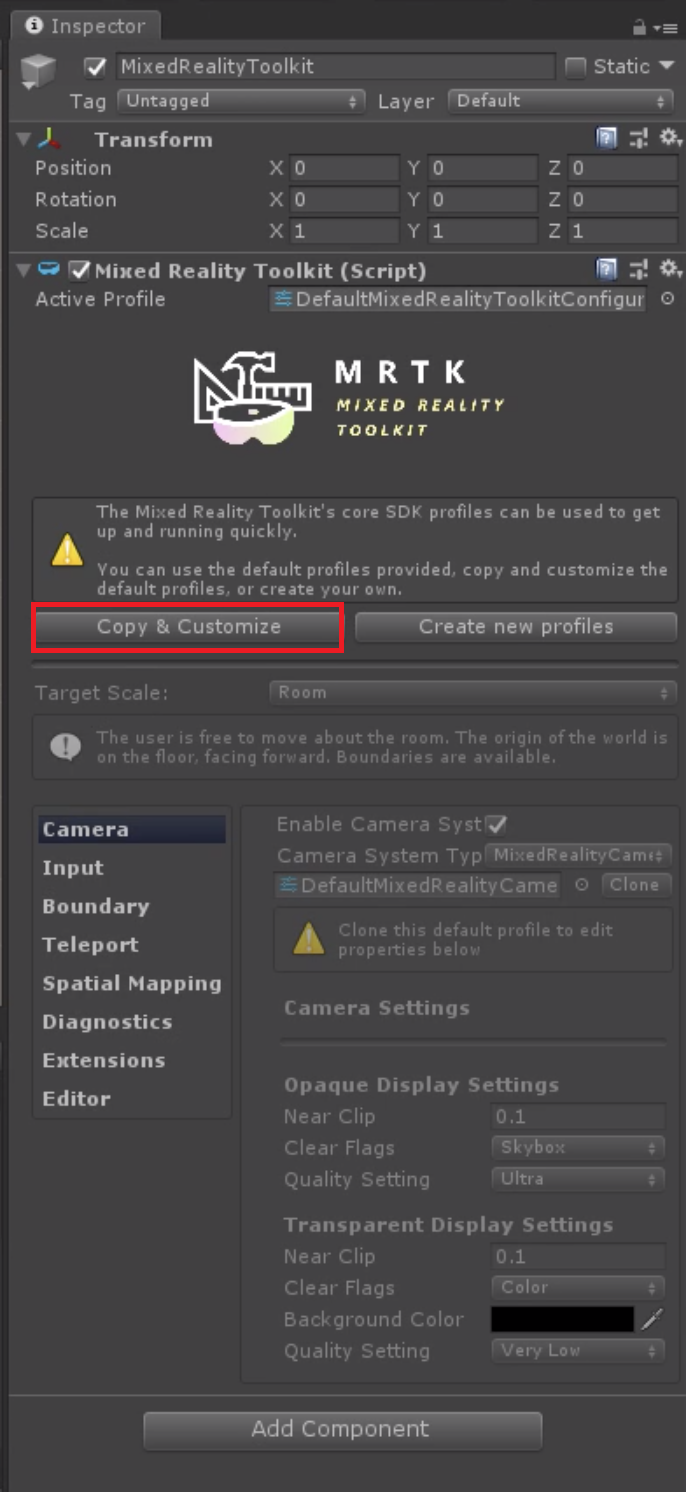
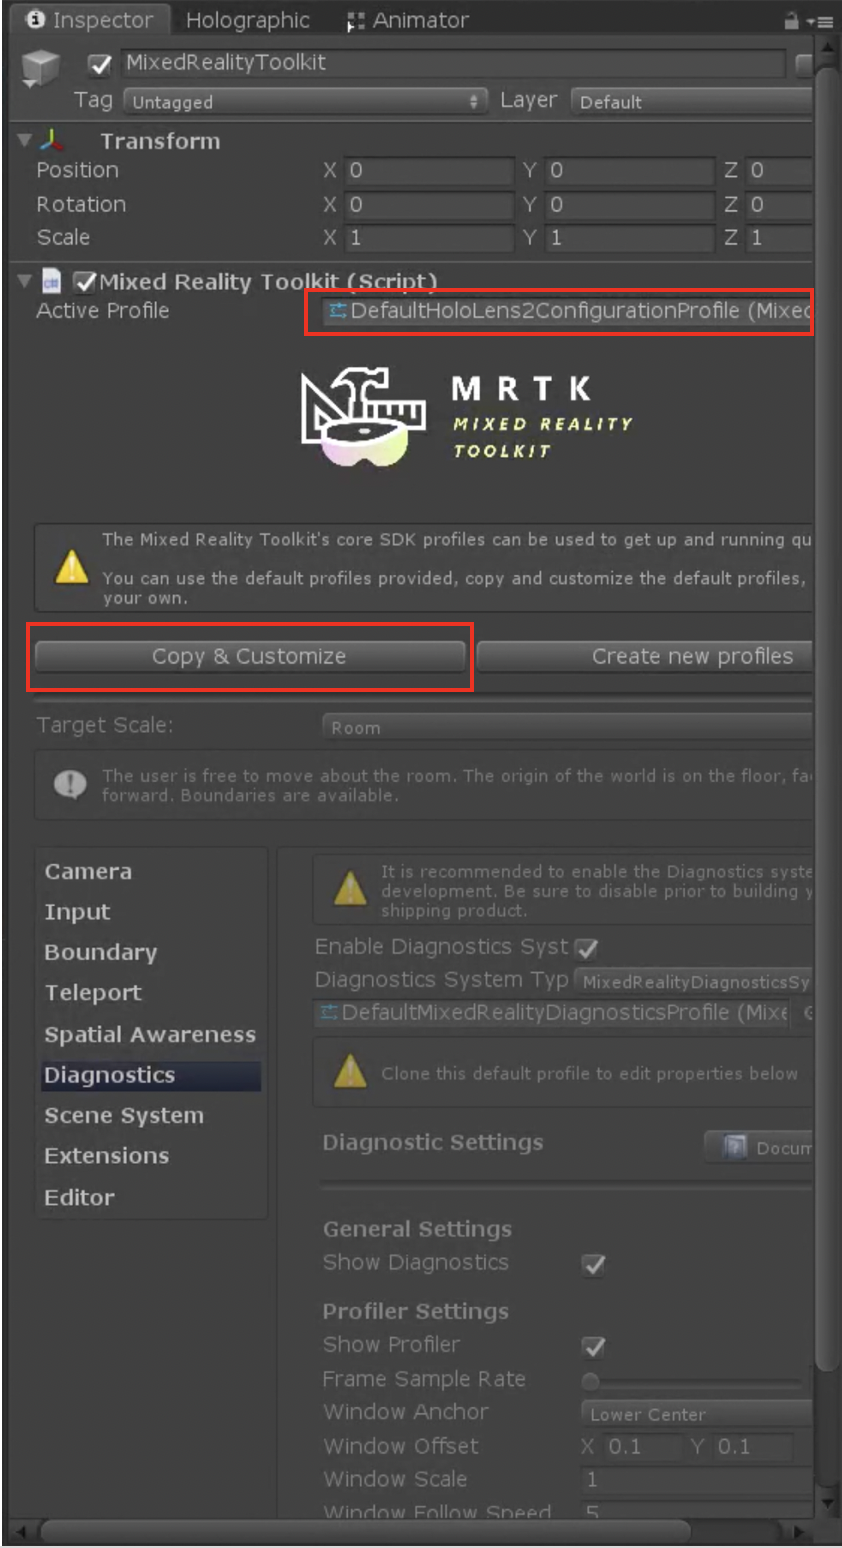
Sharing module MRTK 2.1.0 update

diff --git a/mixed-reality-docs/mrlearning-sharing(photon)-ch2.md b/mixed-reality-docs/mrlearning-sharing(photon)-ch2.md
@@ -23,7 +23,7 @@ In this tutorial, you will learn how to prepare and configure Unity for applicat
 
 ## Instructions
 
-1. Download and save the Mixed Reality Toolkit unity package by clicking [here.](https://github.com/microsoft/MixedRealityToolkit-Unity/releases/download/v2.0.0-RC2.1/Microsoft.MixedReality.Toolkit.Unity.Foundation-v2.0.0-RC2.1.unitypackage)
+1. Download and save the Mixed Reality Toolkit Foundation unity package by clicking [here.](https://github.com/microsoft/MixedRealityToolkit-Unity/releases/download/v2.1.0/Microsoft.MixedReality.Toolkit.Unity.Foundation.2.1.0.unitypackage)
 
 2. In Unity, click the Assets menu and select Import Package, then click on Custom Package.
 
@@ -45,13 +45,15 @@ In this tutorial, you will learn how to prepare and configure Unity for applicat
 
 ![Module3Chapter2step5im](images/module3chapter2step5im.PNG)
 
-6. Once that is complete, a new configuration file appears, giving you the choice to customize the profile. Click Copy and Customize.
+6. Once that is complete, a new configuration file appears, giving you the choice to customize the profile. 
 
-![Module3Chapter2step6ima](images/module3chapter2step6ima.PNG)
+![Module2Chapter1step4im](images/Module2Chapter1step4im.PNG)
 
-![Module3Chapter2step6imb](images/module3chapter2step6imb.PNG)
+7. Select Mixed-Reality Toolkit (MRTK) from the  hierarchy. In the inspector panel, look for the Mixed Reality Toolkit Script and press the "Copy & Customize" button  as shown in the figure below.  A pop will appear after this and select clone option in the pop up menu.
 
 ![Module3Chapter2step6imc](images/module3chapter2step6imc.PNG)
+
+![Module3Chapter2step6imd](images/module3chapter2step6imd.PNG)
 
 7. Scroll down and uncheck Enable Diagnostics system if you want to hide the diagnostics window. We recommend keeping the diagnostics window enabled during application development to monitor performance, and then disabling it during production or application demonstrations. 
 

diff --git a/mixed-reality-docs/mrlearning-base-ch1.md b/mixed-reality-docs/mrlearning-base-ch1.md
@@ -71,14 +71,14 @@ In this first lesson, you'll learn about some of the capabilities the [Mixed Rea
 ### Configure the Mixed Reality Toolkit
 
 1. Add the *Mixed Reality Toolkit* to your current scene by selecting **Mixed Reality Toolkit** > **Add to Scene and Configure..** from the menu bar. If you don't see this menu item after importing the mixed reality toolkit, please restart Unity.
-  ![Lesson1 Section4 Step1](images/mrlearning-base-ch1-4-step1.JPG)
+    ![Lesson1 Section4 Step1](images/mrlearning-base-ch1-4-step1.JPG)
 
     > [!NOTE]
     > You may see a pop-up dialog box for selecting a [profile for the Mixed Reality Toolkit](https://microsoft.github.io/MixedRealityToolkit-Unity/Documentation/Profiles/Profiles.html). Choose the profile named *DefaultHoloLens2ConfigurationProfile* by double-clicking it.
 
 2. Your scene will have several new items and modifications. Save your scene under a different name by clicking **File** > **Save As...**, and give your scene a name, such as *BaseScene*. Keep your scene organized by saving it to the *Scenes* folder in your project’s *Assets* folder.
-  ![Lesson1 Section4 Step2a](images/mrlearning-base-ch1-4-step2a.JPG)
-  ![Lesson1 Section4 Step2b](images/mrlearning-base-ch1-4-step2b.JPG)
+    ![Lesson1 Section4 Step2a](images/mrlearning-base-ch1-4-step2a.JPG)
+    ![Lesson1 Section4 Step2b](images/mrlearning-base-ch1-4-step2b.JPG)
 
 ### Build your application to your device
 
